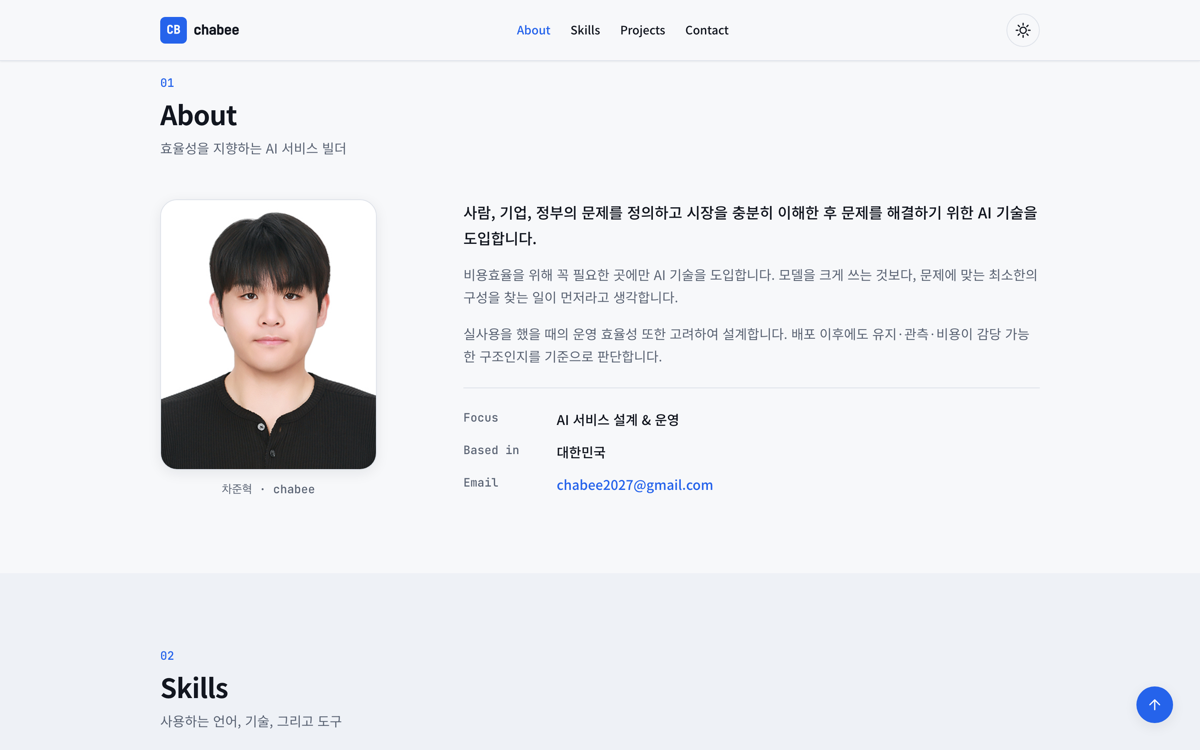
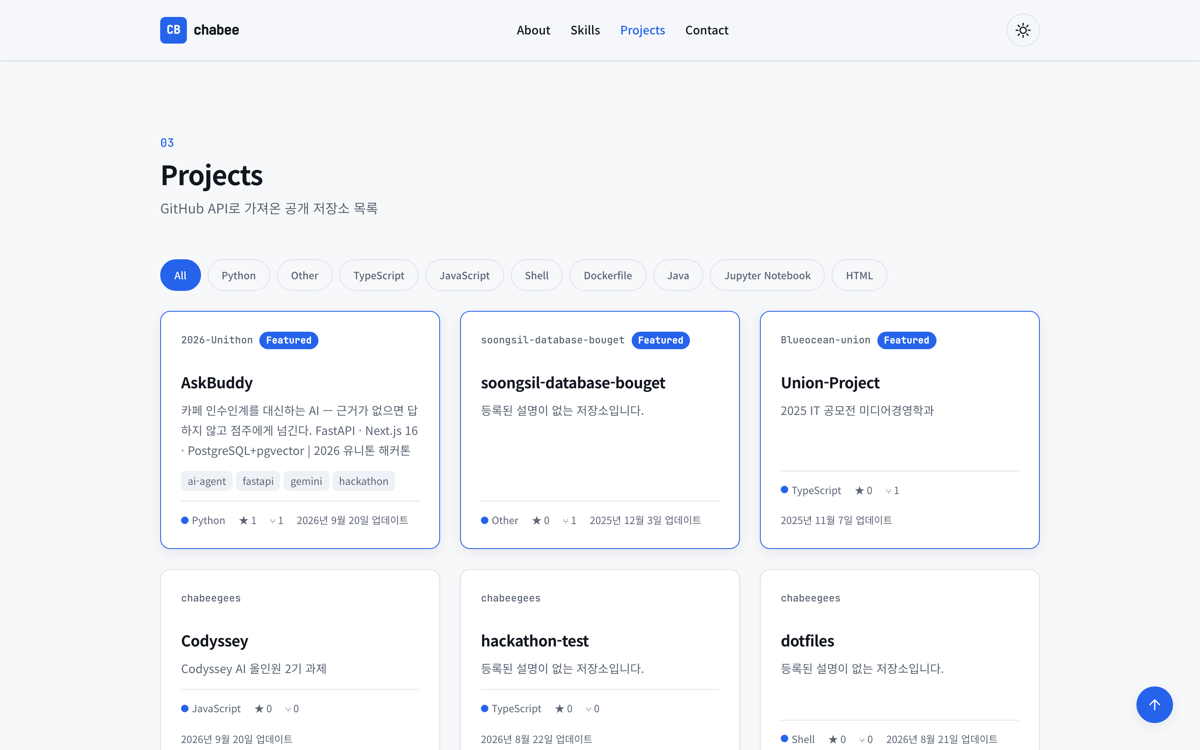
B1-1: 조직 저장소 프로젝트 추가

diff --git a/B1-1/js/projects.js b/B1-1/js/projects.js
@@ -13,6 +13,15 @@
   const GITHUB_USERNAMES = ['chabeegees', 'junhyeok-cha'];
   const REPOS_PER_USER = 100;
 
+  /* 개인 계정이 아닌 조직(Organization) 소속이라 위 목록에는 잡히지 않는,
+     그러나 먼저 보여주고 싶은 저장소들입니다. 'owner/repo' 형식으로 적습니다.
+     여기 있는 저장소는 카드에 'Featured' 배지가 붙고 목록 맨 앞에 나옵니다. */
+  const FEATURED_REPOS = [
+    '2026-Unithon/AskBuddy',
+    'soongsil-database-bouget/soongsil-database-bouget',
+    'Blueocean-union/Union-Project',
+  ];
+
   const viewElement = document.querySelector('#projects-view');
   const filtersElement = document.querySelector('#project-filters');
 
@@ -50,6 +59,22 @@
   };
 
   /**
+   * 저장소 하나를 'owner/repo' 이름으로 직접 가져옵니다.
+   * 조직 저장소는 /users/{id}/repos 응답에 포함되지 않기 때문에 따로 요청합니다.
+   */
+  const fetchRepo = async (fullName) => {
+    const response = await fetch(`https://api.github.com/repos/${fullName}`, {
+      headers: { Accept: 'application/vnd.github+json' },
+    });
+
+    if (!response.ok) {
+      throw new Error(`'${fullName}' 저장소를 가져오지 못했습니다 (HTTP ${response.status})`);
+    }
+
+    return response.json();
+  };
+
+  /**
    * 카드에 필요한 값만 남깁니다. (구조분해 할당으로 필요한 키만 꺼냅니다)
    */
   const toProject = ({
@@ -74,20 +99,41 @@
     topics: topics.slice(0, 4),
     updatedAt,
     owner,
+    featured: false,
   });
+
+  /** 최근 업데이트가 앞에 오도록 정렬합니다. */
+  const byRecentlyUpdated = (a, b) => new Date(b.updatedAt) - new Date(a.updatedAt);
 
   /** 모든 계정의 저장소를 가져와 정리합니다. */
   const loadProjects = async () => {
     App.setState({ projectsStatus: 'loading', projectsError: '' });
 
     try {
-      const responses = await Promise.all(GITHUB_USERNAMES.map(fetchReposOf));
+      /* 개인 계정 저장소와 조직 저장소를 동시에 요청합니다.
+         allSettled는 실패한 것이 있어도 나머지 결과를 그대로 돌려줍니다.
+         조직 저장소 하나가 비공개로 바뀌어도 전체 목록이 날아가지 않게 하려는 의도입니다. */
+      const [userResults, featuredResults] = await Promise.all([
+        Promise.all(GITHUB_USERNAMES.map(fetchReposOf)),
+        Promise.allSettled(FEATURED_REPOS.map(fetchRepo)),
+      ]);
 
-      const projects = responses
+      const featured = featuredResults
+        .filter(({ status }) => status === 'fulfilled')
+        .map(({ value }) => ({ ...toProject(value), featured: true }))
+        .sort(byRecentlyUpdated);
+
+      /* 개인 저장소 중 이미 Featured에 들어간 것은 중복이므로 걸러냅니다. */
+      const featuredIds = new Set(featured.map(({ id }) => id));
+
+      const personal = userResults
         .flat()
         .filter(({ fork }) => !fork)                       // 포크한 저장소는 제외
         .map(toProject)
-        .sort((a, b) => new Date(b.updatedAt) - new Date(a.updatedAt));
+        .filter(({ id }) => !featuredIds.has(id))
+        .sort(byRecentlyUpdated);
+
+      const projects = [...featured, ...personal];
 
       if (projects.length === 0) {
         App.setState({ projectsStatus: 'empty', projects: [] });
@@ -145,9 +191,13 @@
     topics,
     updatedAt,
     owner,
+    featured,
   }) => `
-    <article class="card">
-      <p class="card__owner">${escapeHtml(owner)}</p>
+    <article class="card${featured ? ' card--featured' : ''}">
+      <p class="card__owner">
+        ${escapeHtml(owner)}
+        ${featured ? '<span class="card__badge">Featured</span>' : ''}
+      </p>
       <h3 class="card__title">
         <a href="${escapeHtml(url)}" target="_blank" rel="noopener noreferrer">
           ${escapeHtml(name)}

diff --git a/B1-1/css/style.css b/B1-1/css/style.css
@@ -769,10 +769,30 @@ button {
   box-shadow: var(--shadow-lg);
 }
 
+/* 조직 저장소 중 직접 골라 앞에 내세운 카드 */
+.card--featured {
+  border-color: var(--color-primary);
+  box-shadow: var(--shadow-md);
+}
+
 .card__owner {
+  display: flex;
+  flex-wrap: wrap;
+  align-items: center;
+  gap: var(--space-2);
   color: var(--color-text-muted);
   font-family: var(--font-mono);
   font-size: var(--text-xs);
+}
+
+.card__badge {
+  padding: 1px var(--space-2);
+  background-color: var(--color-primary);
+  color: var(--color-on-primary);
+  border-radius: var(--radius-full);
+  font-size: 0.6875rem;
+  font-weight: 700;
+  letter-spacing: 0.02em;
 }
 
 .card__title {

diff --git a/B1-1/README.md b/B1-1/README.md
@@ -130,14 +130,42 @@ B1-1/
 
 ### GitHub API 연동
 
-두 계정(`chabeegees`, `junhyeok-cha`)의 공개 저장소를 `Promise.all`로 동시에 불러와
-하나의 목록으로 합치고, 최근 업데이트 순으로 정렬합니다. 포크한 저장소는 제외합니다.
+저장소를 **두 종류의 엔드포인트**에서 가져와 하나의 목록으로 합칩니다.
 
 ```js
+// ① 개인 계정의 저장소 전체  → /users/{id}/repos
 const GITHUB_USERNAMES = ['chabeegees', 'junhyeok-cha'];
+
+// ② 조직 소속이라 ①에 안 잡히는, 먼저 보여주고 싶은 저장소 → /repos/{owner}/{repo}
+const FEATURED_REPOS = [
+  '2026-Unithon/AskBuddy',
+  'soongsil-database-bouget/soongsil-database-bouget',
+  'Blueocean-union/Union-Project',
+];
 ```
 
-이 배열에 아이디를 넣고 빼는 것만으로 표시 대상이 바뀝니다.
+이 두 배열에 값을 넣고 빼는 것만으로 표시 대상이 바뀝니다.
+
+**왜 엔드포인트를 나눴는가** — `/users/{id}/repos`는 그 계정이 **소유한** 저장소만 돌려줍니다.
+해커톤·공모전처럼 조직(Organization) 계정 아래에 만든 저장소는 기여자여도 여기에 포함되지 않습니다.
+그래서 조직 저장소는 `'owner/repo'` 이름으로 하나씩 직접 요청합니다.
+
+**실패를 다르게 다룹니다.**
+
+```js
+const [userResults, featuredResults] = await Promise.all([
+  Promise.all(GITHUB_USERNAMES.map(fetchReposOf)),     // 하나라도 실패하면 → 에러 상태
+  Promise.allSettled(FEATURED_REPOS.map(fetchRepo)),   // 실패한 것만 빼고 나머지는 표시
+]);
+```
+
+- 개인 계정 조회는 `Promise.all` — 실패하면 보여줄 게 거의 없으므로 에러 화면으로 갑니다.
+- Featured 저장소는 `Promise.allSettled` — 그중 하나가 비공개로 바뀌어도
+  **나머지 목록 전체가 날아가지 않도록** 실패한 것만 조용히 빼고 렌더합니다.
+
+Featured 저장소는 목록 맨 앞에 오고 `Featured` 배지와 강조 테두리가 붙습니다.
+개인 저장소 목록에 같은 저장소가 있으면 `Set`으로 id를 비교해 중복을 제거합니다.
+그 뒤 각 그룹을 최근 업데이트 순으로 정렬하고, 포크한 저장소는 제외합니다.
 
 **네 가지 상태가 모두 화면으로 구분됩니다.**
 
@@ -503,6 +531,7 @@ React가 다른 점은 **무엇이 바뀌었는지 알아내서 바뀐 부분만
 | 메시지 최소 길이 | **10자** | `js/form.js` `MIN_MESSAGE_LENGTH` | 의미 있는 문의가 되기 위한 최소한 |
 | 타이핑 속도 | 입력 90ms / 삭제 40ms / 대기 1600ms | `js/hero.js` | 읽을 수 있으면서 지루하지 않은 속도 |
 | GitHub 조회 계정 | `chabeegees`, `junhyeok-cha` | `js/projects.js` `GITHUB_USERNAMES` | 본인이 사용하는 두 계정 |
+| Featured 저장소 | 조직 저장소 3개 | `js/projects.js` `FEATURED_REPOS` | 조직 소속이라 계정 조회에 잡히지 않지만 먼저 보여주고 싶은 프로젝트 |
 
 ---
 
@@ -530,11 +559,15 @@ python3 -m http.server 8000
 ## 알려진 제약
 
 - **GitHub API 요청 한도** — 인증 없이 호출하면 시간당 60회입니다.
-  이 사이트는 페이지를 한 번 열 때 계정 2개를 조회하므로 **시간당 약 30회** 새로고침할 수 있습니다.
+  이 사이트는 페이지를 한 번 열 때 계정 2회 + Featured 저장소 3회 = **총 5회**를 호출하므로
+  **시간당 약 12회** 새로고침할 수 있습니다.
   한도를 넘기면 403이 오고, 그때는 에러 상태 UI와 함께
   "요청 한도(시간당 60회)를 초과했습니다"라는 안내가 표시됩니다.
   토큰을 넣으면 한도가 늘어나지만, 정적 사이트의 소스에 토큰을 넣으면
   누구나 볼 수 있으므로 **일부러 넣지 않았습니다.**
+- **비공개 저장소는 표시할 수 없습니다.** 인증 없는 GitHub API는 공개 저장소만 응답합니다.
+  비공개 저장소를 Projects에 넣으려면 해당 저장소를 공개로 전환해야 합니다.
+  (`2026-Anyang-city-AI-competition/anyang-parking`이 현재 이 경우에 해당합니다.)
 - **문의 폼에 백엔드가 없습니다.** GitHub Pages는 정적 파일만 제공하므로
   서버로 전송할 수 없습니다. 검증을 통과하면 `mailto:` 링크를 여는 방식으로 대신했습니다.
   실제 전송이 필요하면 Formspree/EmailJS를 붙일 수 있습니다.
@@ -548,8 +581,9 @@ python3 -m http.server 8000
 최신 Chrome(headless, DevTools Protocol)으로 자동 점검한 결과입니다.
 
 - [x] 콘솔 에러 **0건**
-- [x] GitHub API 성공 — 저장소 16개, 카드 16장 렌더
-- [x] 언어 필터 9종 생성 (All 포함)
+- [x] GitHub API 성공 — 저장소 19개(Featured 3 + 개인 16), 카드 19장 렌더
+- [x] Featured 저장소 3개가 목록 맨 앞에 배지와 함께 표시
+- [x] 언어 필터 10종 생성 (All 포함), Python 필터 선택 시 5장으로 축소 → All 복귀 시 19장
 - [x] 에러 상태 — 네트워크 차단 시 에러 UI + 재시도 버튼 표시
 - [x] 다크 모드 토글 → `localStorage` 저장 → 새로고침 후 유지
 - [x] 스크롤 0px / 100px / 500px에서 헤더·스크롤탑 버튼 상태 전환
